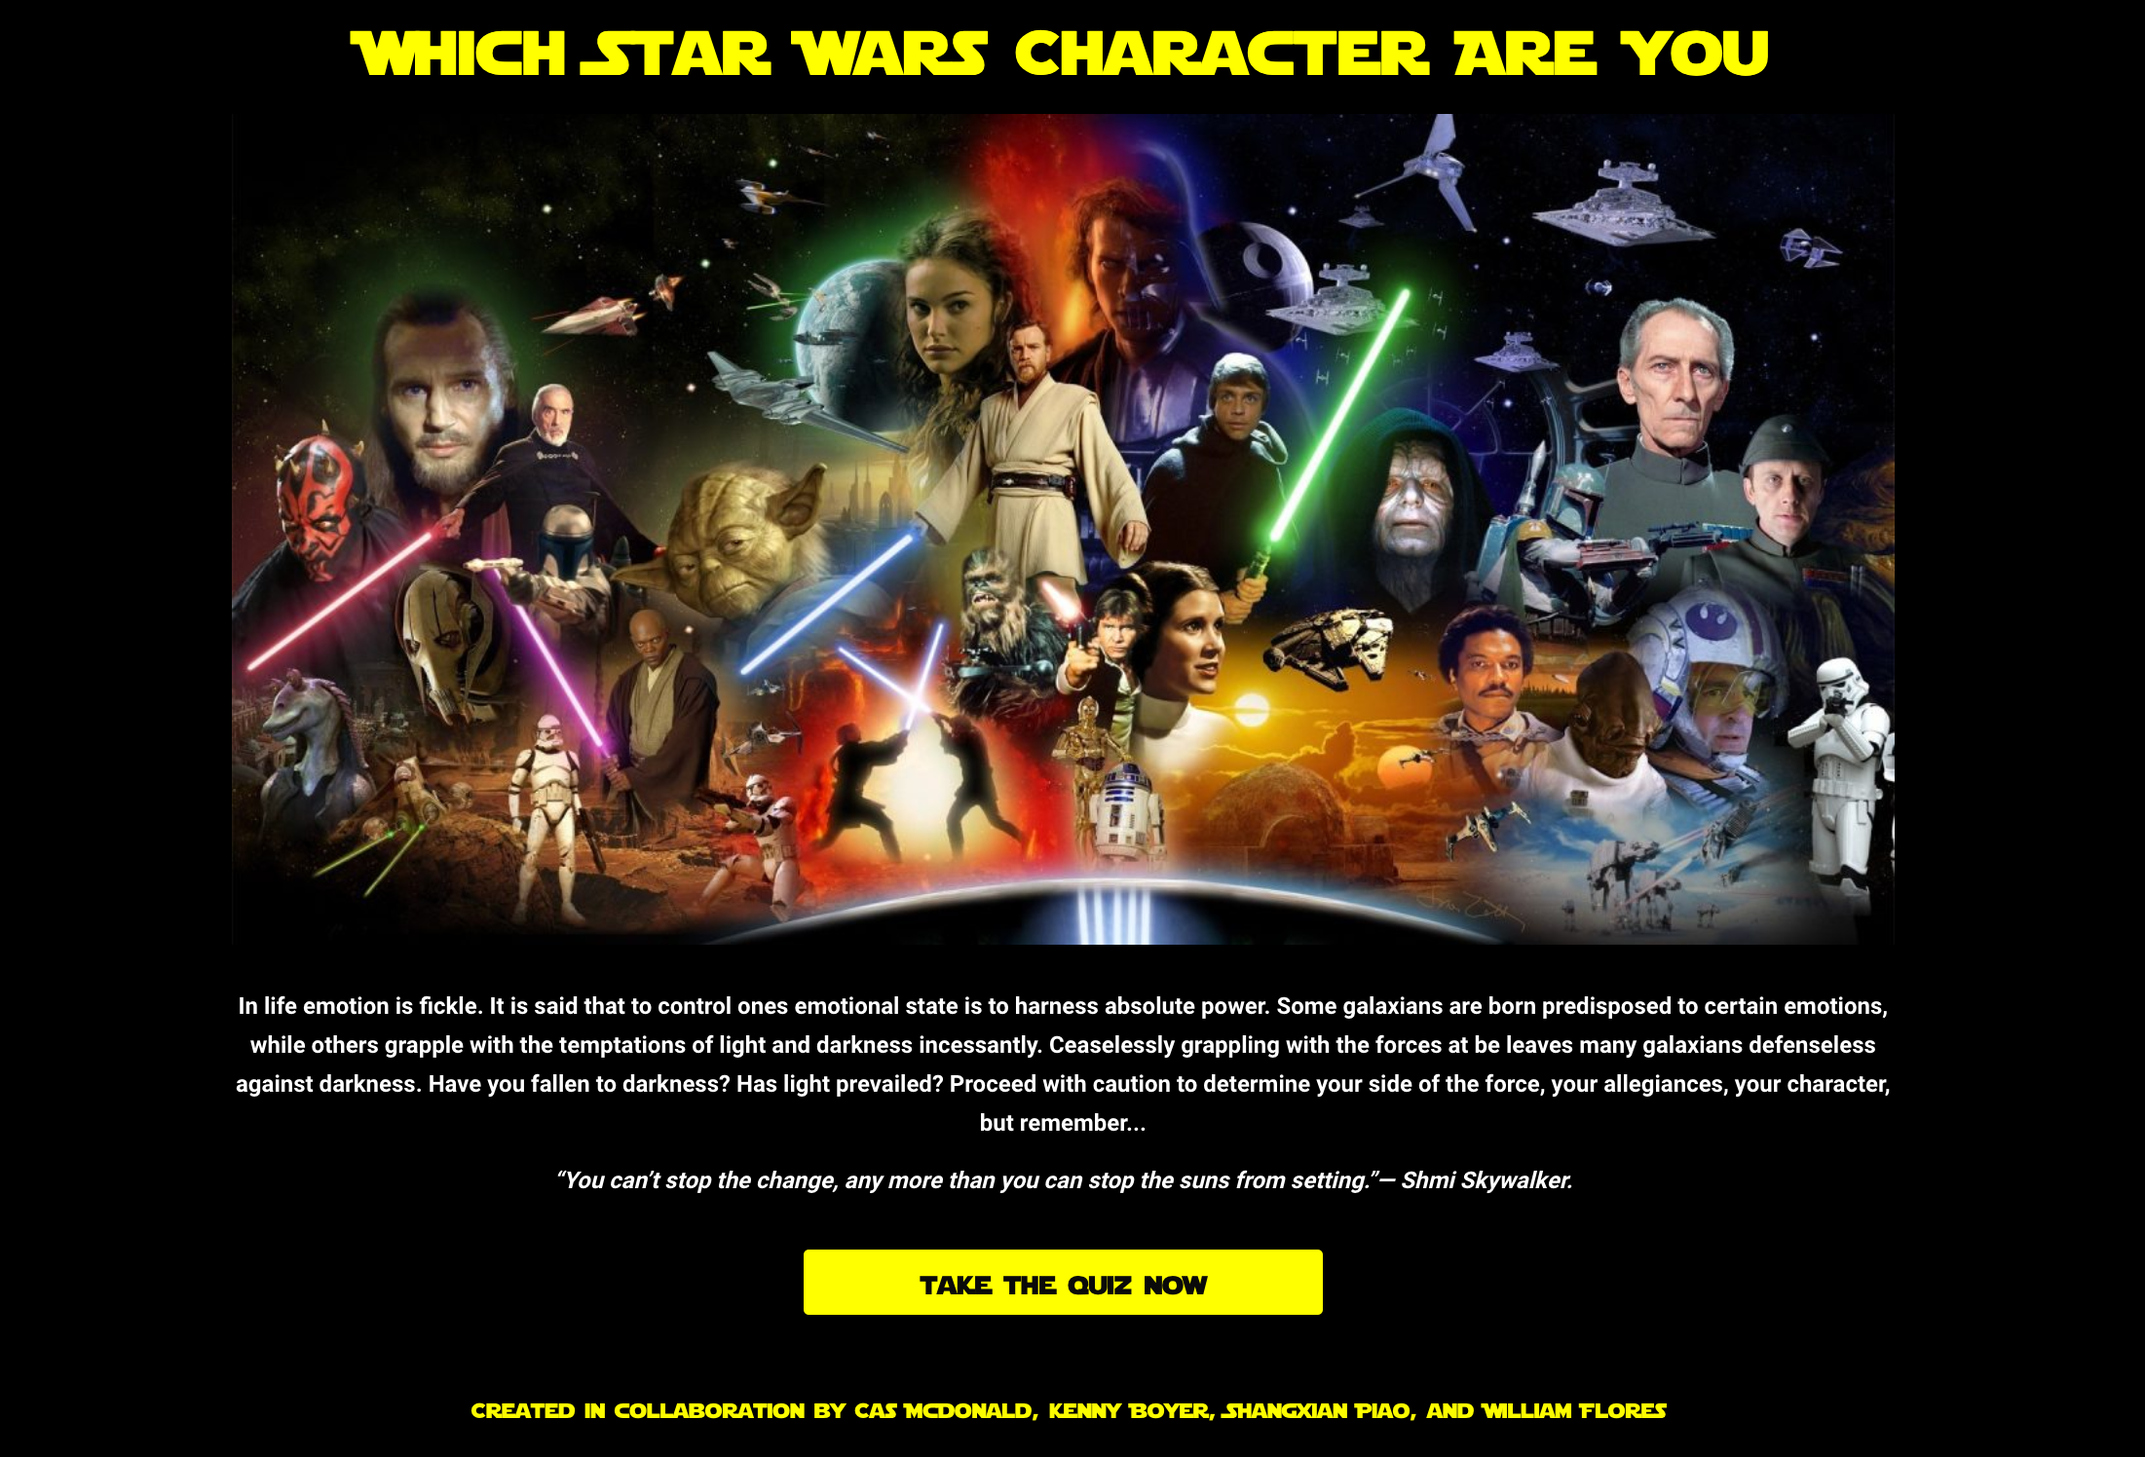
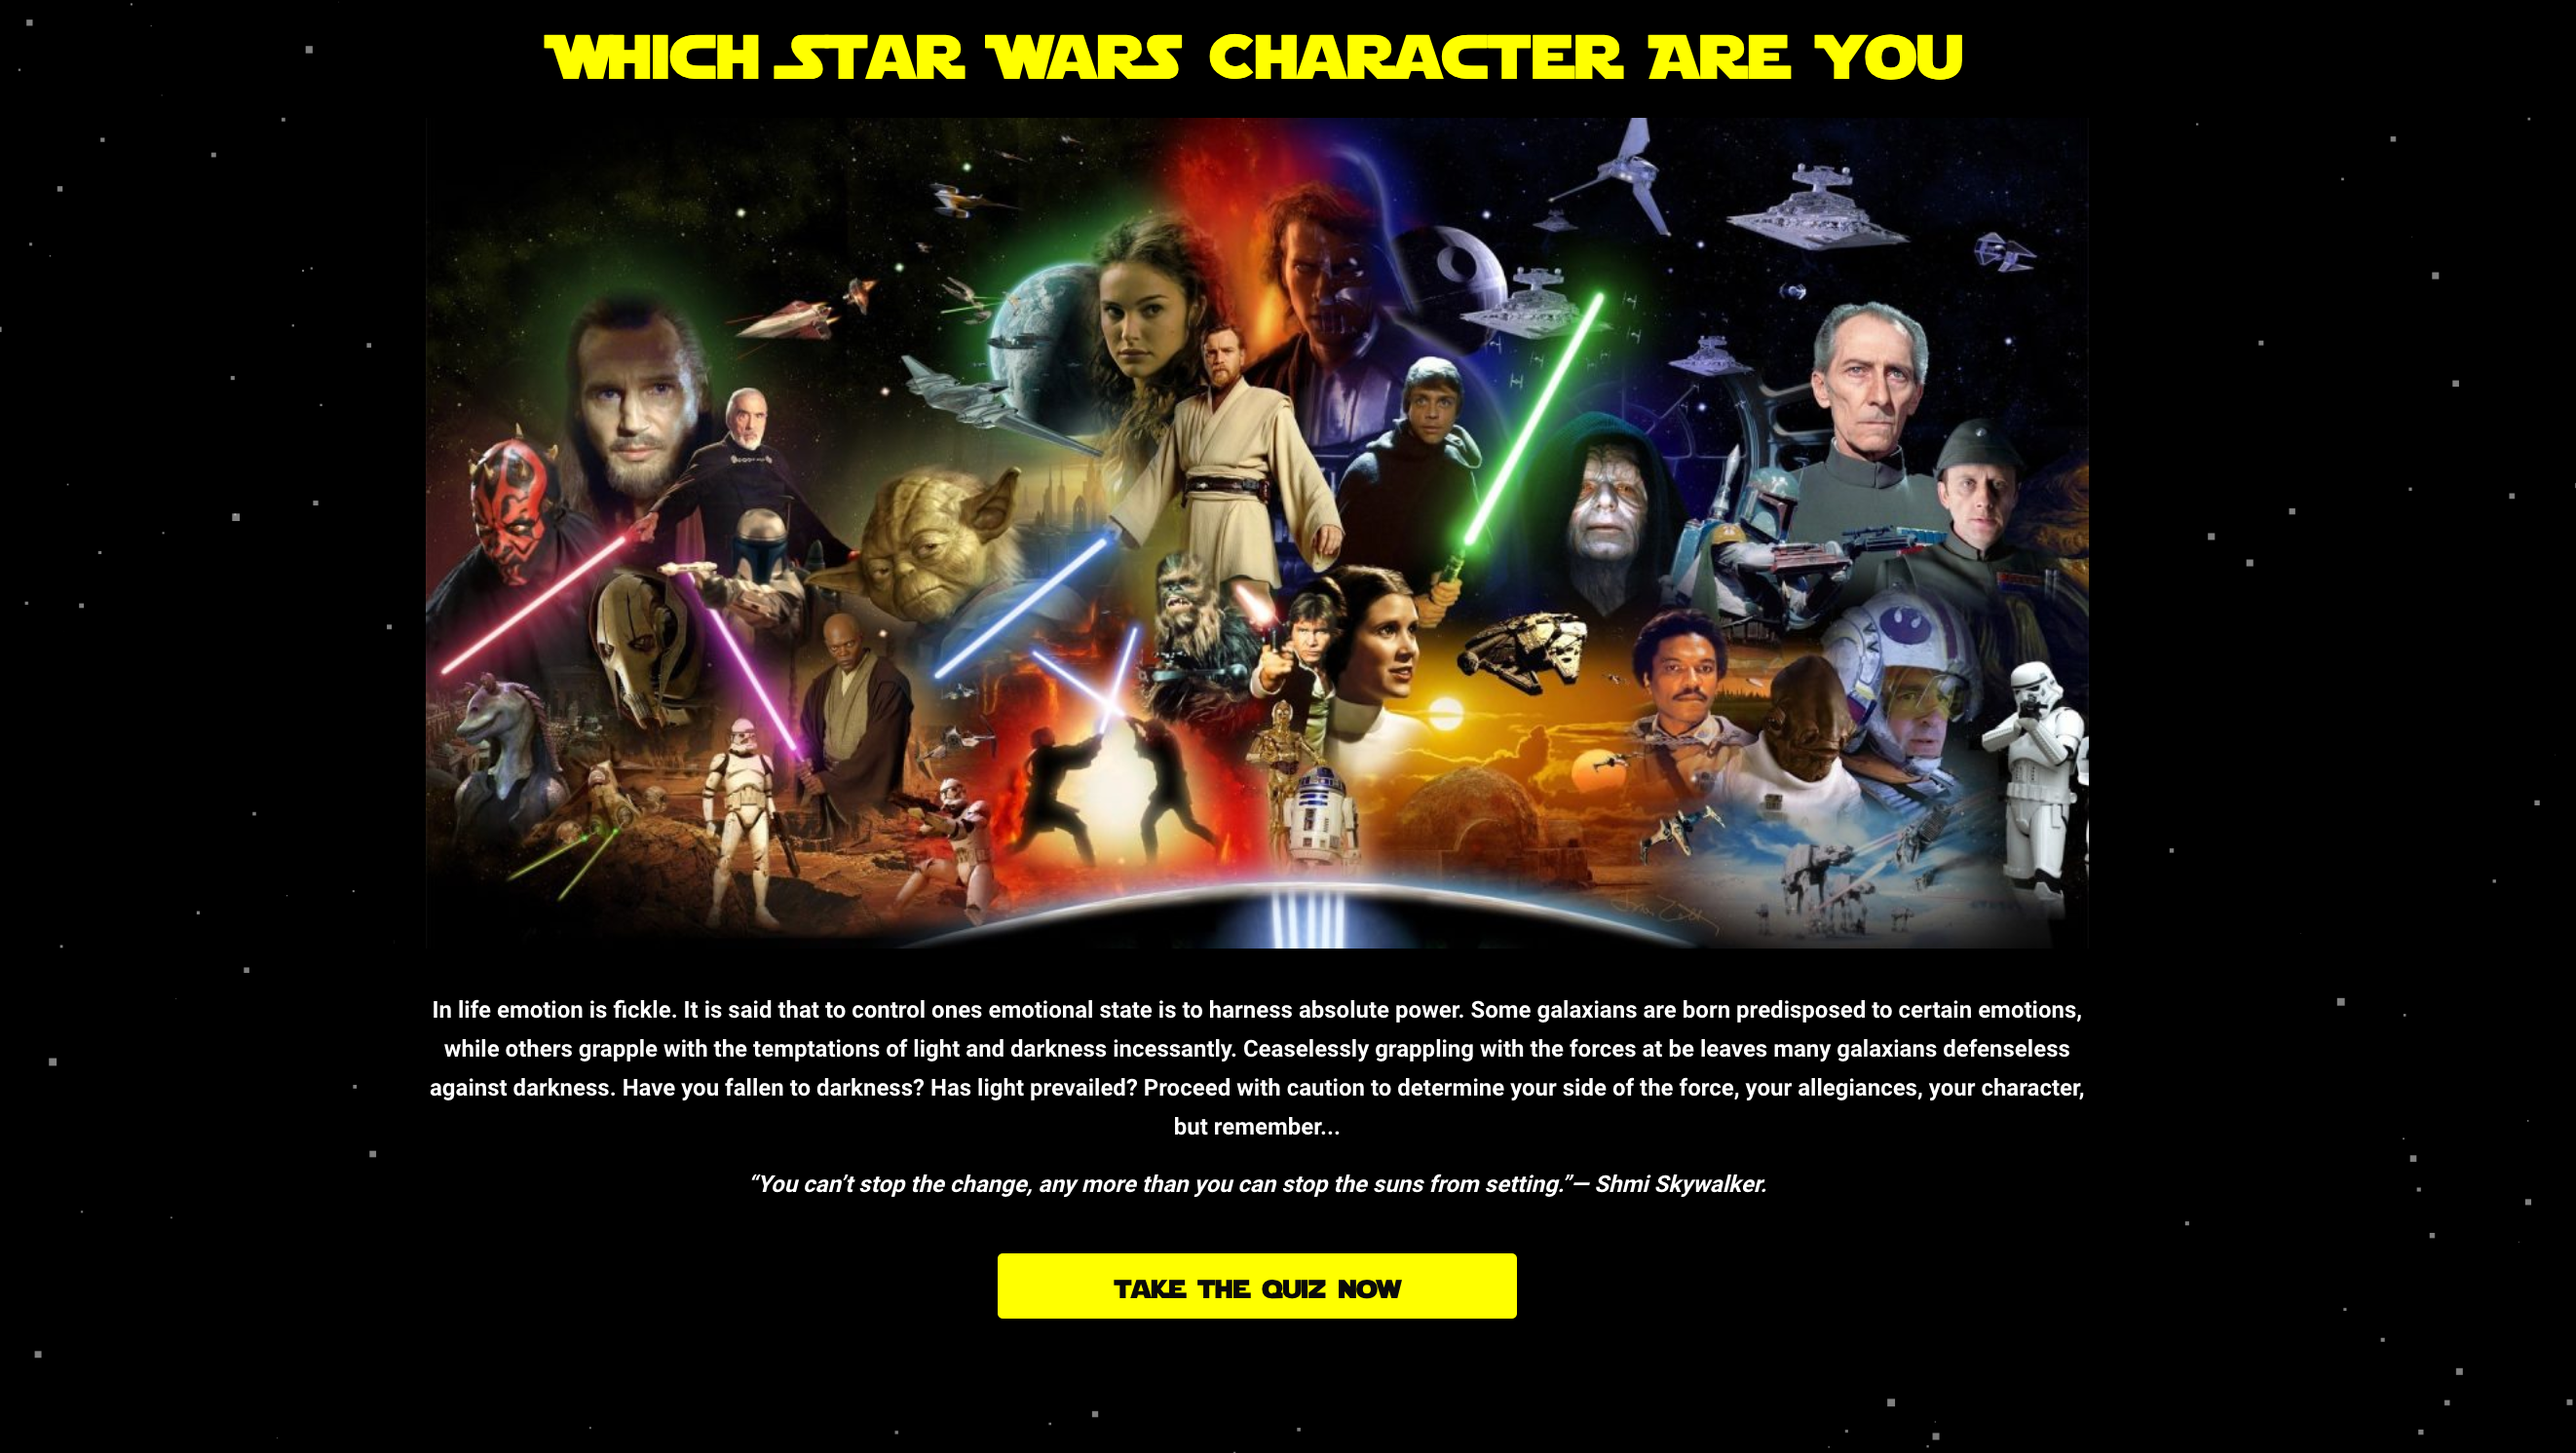
Cas (#38)
* minor text update on the readme

* new changes pushed

* updates to css and html

* added particles files

* updated css and styles

* changed css

* updates to css and html

* added particles

* fixed star quiz

* fixed issue

* minor JS fix

* minor fixes to project

diff --git a/index.html b/index.html
@@ -23,6 +23,11 @@
           <p id ="quote">“You can’t stop the change, any more than you can stop the suns from setting.”— Shmi Skywalker.</p>
 
           <button class="button startBtn is-white" id="startBtn">take the quiz now</button>
+          <footer>
+            <p>
+              Created in collaboration by Cas McDonald, Kenny Boyer, Shangxian Piao, and William Flores</h1>
+              <img class="swg swg-reball swg-4x"></img>
+          </footer>
       </div>
 </div>
 </div>
@@ -182,7 +187,7 @@
           <div class="control">
 
             <H2 class="question">
-              Statement 5: You trust that people have good intentions.
+              Statement 5: You believe that people have good intentions.
             </H2>
 
             <label class="radio">
@@ -258,7 +263,7 @@
           <div class="control">
 
             <H2 class="question">
-              Statement 7: Peace is the truth, there is no passion.
+              Statement 7: You trust other people willingly with your life.
             </H2>
 
             <label class="radio">
@@ -407,6 +412,11 @@
           </div>
           </br>
           <button class="button resultBtn" id="resultBtn">see my results</button>
+          <footer>
+            <p>
+              Created in collaboration by Cas McDonald, Kenny Boyer, Shangxian Piao, and William Flores</h1>
+              <img class="swg swg-reball swg-4x"></img>
+          </footer>
     </div>
 
 
@@ -439,13 +449,13 @@
         </div>
         </div>
         <button class="button restartBtn" id="restartBtn">restart the quiz</button>
+        <footer>
+          <p>
+            Created in collaboration by Cas McDonald, Kenny Boyer, Shangxian Piao, and William Flores</h1>
+            <img class="swg swg-reball swg-4x"></img>
+        </footer>
       </div>
     </div>
-    <footer>
-      <p>
-        Created in collaboration by Cas McDonald, Kenny Boyer, Shangxian Piao, and William Flores</h1>
-        <img class="swg swg-reball swg-4x"></img>
-    </footer>
 
 
     <script src="https://code.jquery.com/jquery-3.5.1.js" integrity="sha256-QWo7LDvxbWT2tbbQ97B53yJnYU3WhH/C8ycbRAkjPDc=" crossorigin="anonymous"></script>

diff --git a/assets/style.css b/assets/style.css
@@ -30,14 +30,19 @@ h4{
 
 .container{
     width: 100%;
+    height: 100%;
     z-index: 1;
     text-align: center;
     align-items: center;
 }
 
 canvas{
-  position: absolute;
+  position: fixed;
   top: 0;
+}
+
+footer{
+  z-index: 1;
 }
 
 

diff --git a/README.md b/README.md
@@ -17,9 +17,9 @@ Darth Maul
 General Grievous
 Boba Fett
 Nute Gunray
-Greedo 
+Greedo
 Anakin Skywalker
-Lando Calirissian
+Lando Calrissian
 C3P0
 R2D2
 Jar Jar Binx
@@ -29,7 +29,7 @@ Leia Organa
 Luke Skywalker
 Obiwan Kenobi
 Yoda
-Mace Windu 
+Mace Windu
 ```
 
 **Link to Deployed Page:**
